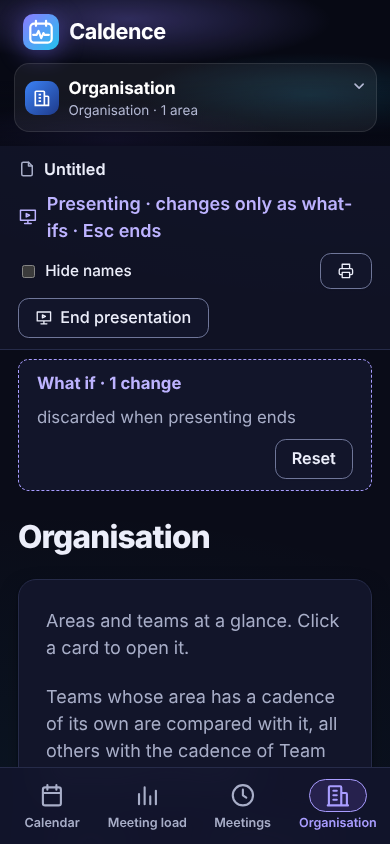
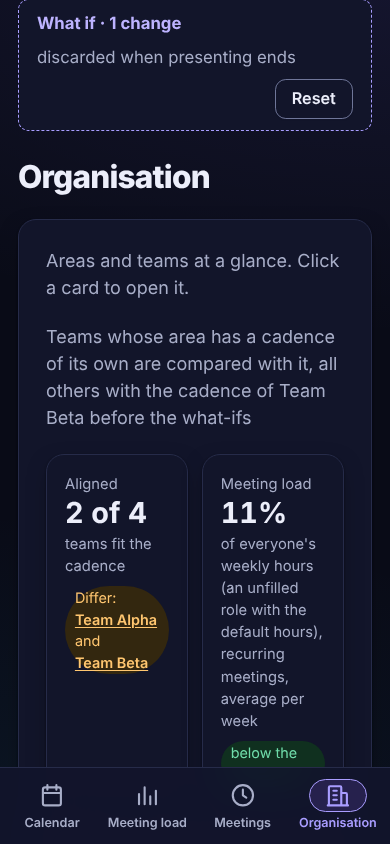
fix: name the Organisation page in help, check Reset, re-shoot phone PNGs (#484)

diff --git a/tests/e2e/organisation.spec.ts b/tests/e2e/organisation.spec.ts
@@ -223,4 +223,12 @@ test('presenting, a what-if on the reference team says "before the what-ifs" (#4
   await expect(lead).toHaveText(
     'Teams whose area has a cadence of its own are compared with it, all others with the cadence of Team Beta before the what-ifs',
   );
+  // Reset brings back the unchanged wording.
+  await page
+    .getByRole('region', { name: 'What if' })
+    .getByRole('button', { name: 'Reset' })
+    .click();
+  await expect(lead).toHaveText(
+    'Teams whose area has a cadence of its own are compared with it, all others with the cadence of Team Beta, which most teams share',
+  );
 });
